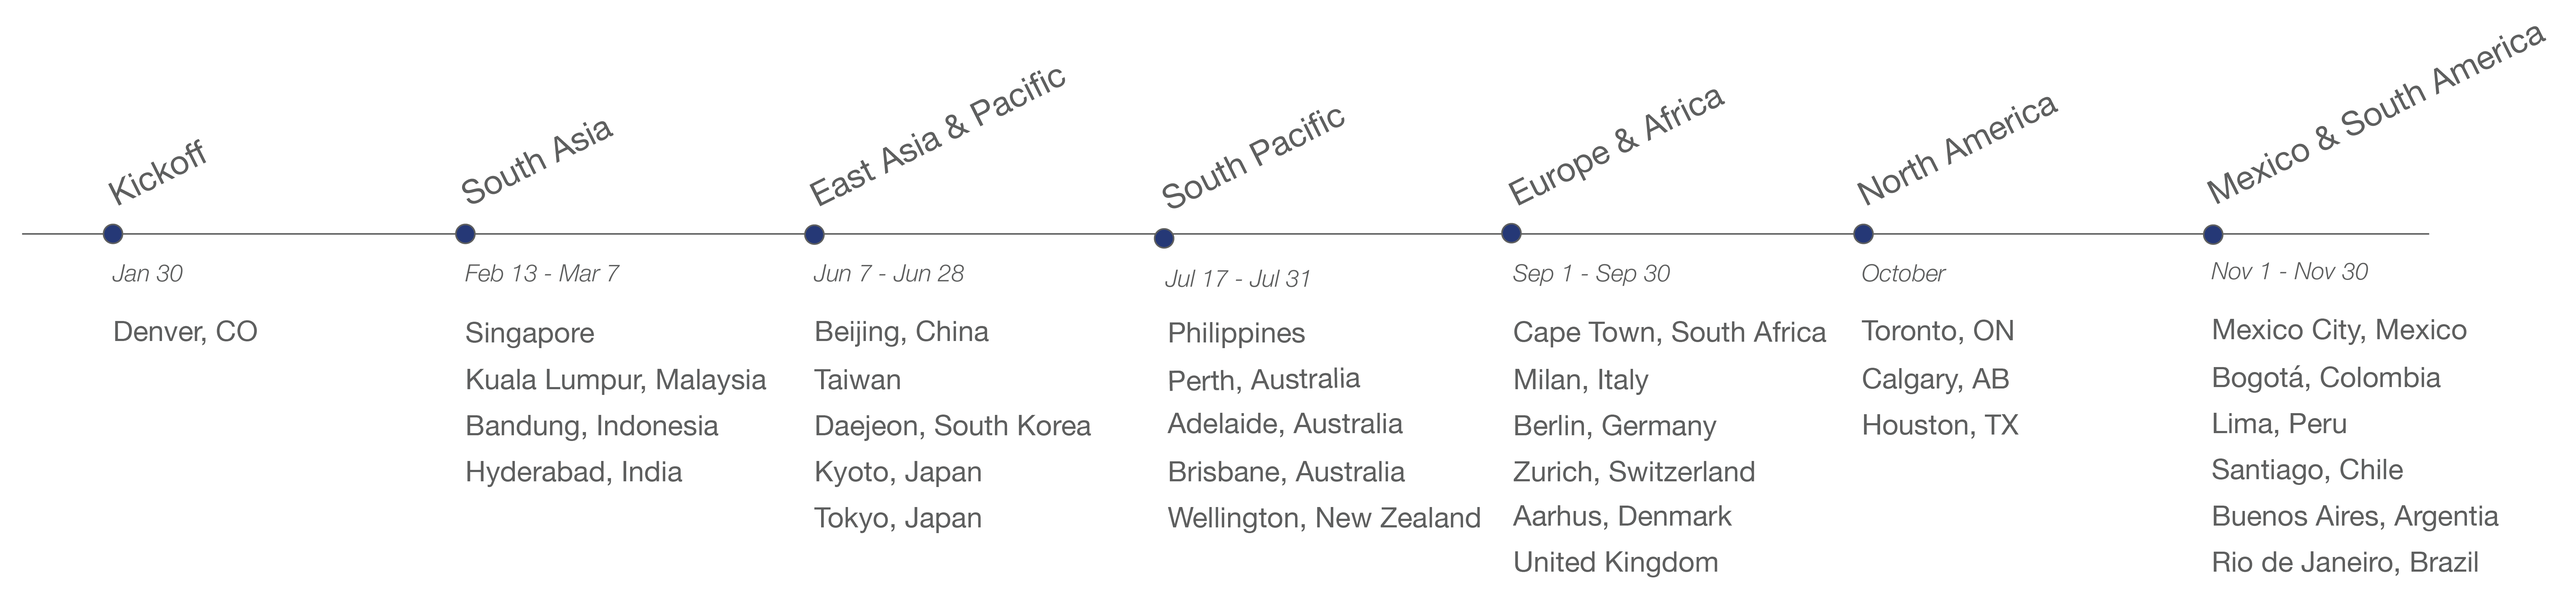
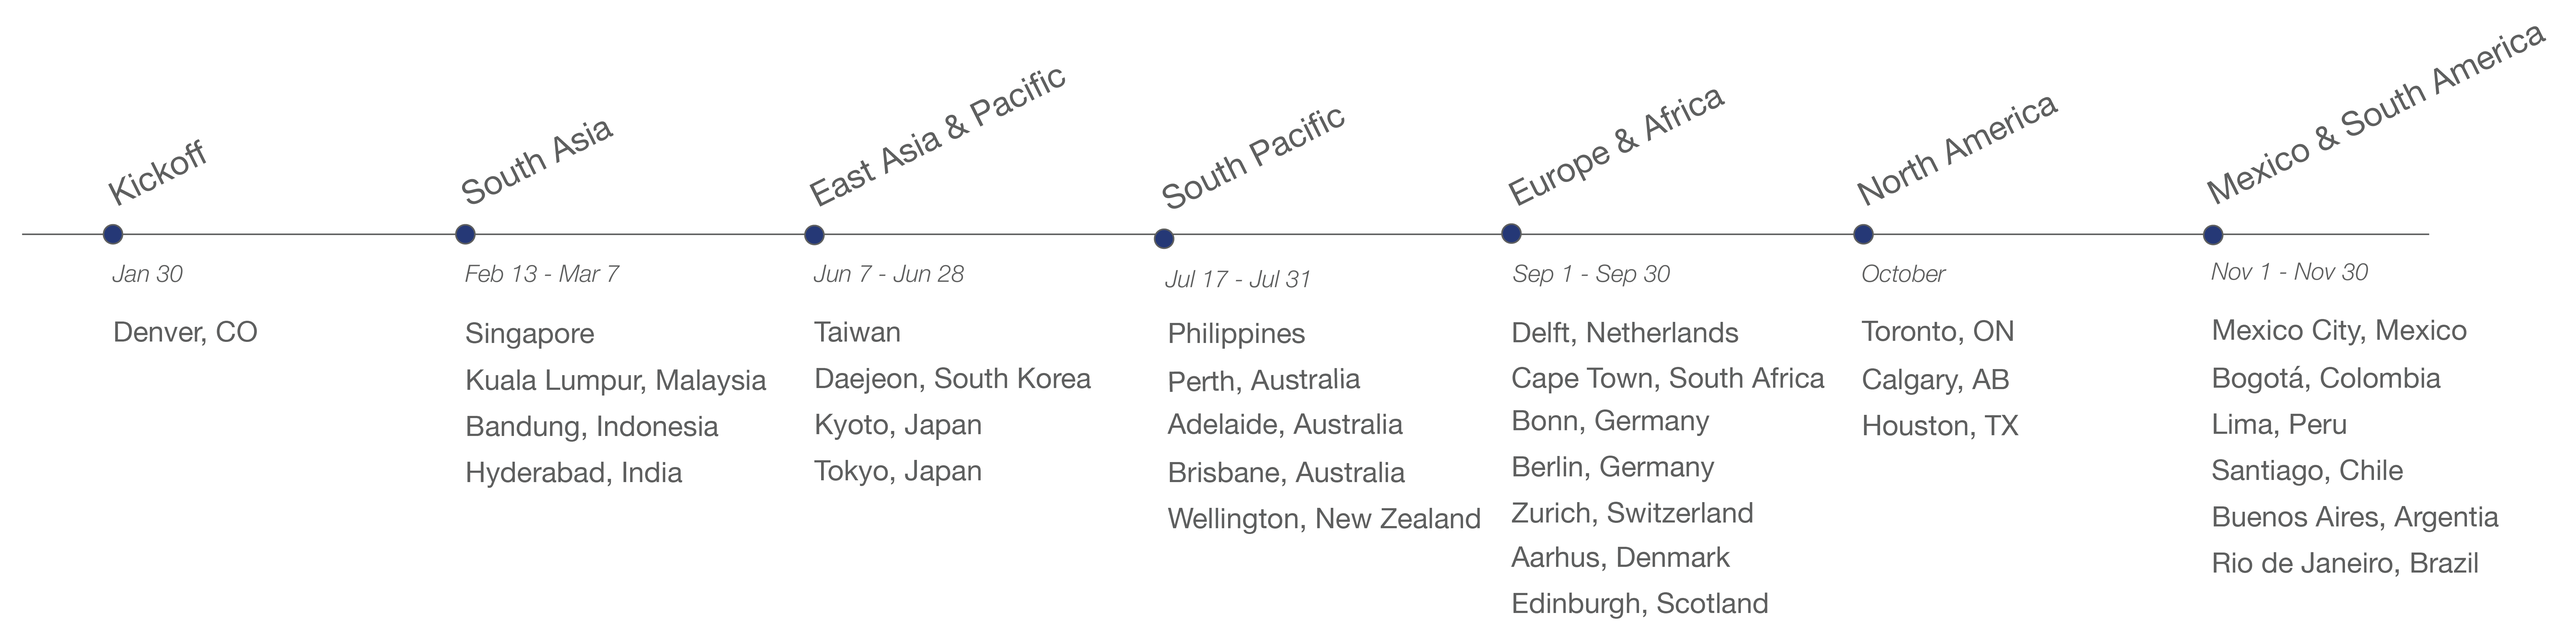
update site to include all east asia addresses, post links for australia registration

diff --git a/templates/where/template.html b/templates/where/template.html
@@ -58,33 +58,40 @@
 
                         <div class="row">
                             <h3>
-                                <emph> {{ date }} </emph>
+                                {{ date }}
                             </h3>
                         </div>
 
-                        <br>
+                        <!-- <br> -->
 
+                        {% if instructors is defined %}
+                        <div class="row" align="center">
+                            <h4>
+                                <em> {{ instructors|join(' &amp; ')}} </em>
+                            </h4>
+                        </div>
+                        {% endif %}
                         <!-- <div class="col-md-2 templatemo-box"></div> -->
 
 
+                        {% if feedback_form is defined %}
                         <div class="col-md-12 templatemo-box" align="center">
-                            {% if feedback_form is defined %}
-                                <a class="btn btn-success" href="{{ feedback_form }}" style="margin:10px">
-                                    <i class="fa fa-comment-o" aria-hidden="true"></i>
-                                    Give us feedback
-                                </a>
-                            {% endif %}
-<!--                         </div>
+                            <a class="btn btn-success" href="{{ feedback_form }}" style="margin:10px">
+                                <i class="fa fa-comment-o" aria-hidden="true"></i>
+                                Give us feedback
+                            </a>
+                        </div>
+                        {% endif %}
 
 
-                        <div class="col-md-6 templatemo-box" align="left"> -->
-                            {% if blog is defined %}
+                        {% if blog is defined %}
+                        <div class="col-md-6 templatemo-box" align="left">
                             <a class="btn btn-success" href="{{ blog }}"  style="margin:10px">
                                 <i class="fa fa-quote-left" aria-hidden="true"></i>
                                 Read about the day
                             </a>
-                            {% endif %}
                         </div>
+                        {% endif %}
 
 
                         <br>

diff --git a/templates/schedule.html b/templates/schedule.html
@@ -119,6 +119,10 @@
 
                                     <p>
                                         <em>{{ where[loc]['date'] }}</em>
+                                        {% if where[loc]['instructors'] is defined %}
+                                        <br>
+                                        <em>{{ where[loc]['instructors']|join(' &amp; ')}}</em>
+                                        {% endif %}
                                         <ul>
                                             <li>{{ where[loc]['time'] }}</li>
                                             <li><a href="{{ where[loc]['venue_url'] }}">{{ where[loc]['venue'] }}</a></li>
@@ -210,6 +214,10 @@
 
                                     <p>
                                         <em>{{ where[loc]['date'] }}</em>
+                                        {% if where[loc]['instructors'] is defined %}
+                                        <br>
+                                        <em>{{ where[loc]['instructors']|join(' &amp; ')}}</em>
+                                        {% endif %}
                                         <ul>
                                             <li>{{ where[loc]['time'] }}</li>
                                             <li><a href="{{ where[loc]['venue_url'] }}">{{ where[loc]['venue'] }}</a></li>

diff --git a/templates/index.html b/templates/index.html
@@ -290,7 +290,7 @@
                     </div>
                 </div>
 
-            <div class="row" align="left">
+            <div class="row" align="left" id="instructor">
                  <h4>Instructor</h4>
             </div>
             <div class="row">

diff --git a/disc2017.py b/disc2017.py
@@ -66,7 +66,7 @@ class Schedule(webapp2.RequestHandler):
 
 
     def get(self):
-        setTemplate(self, {'where':self.where}, 'schedule.html')
+        setTemplate(self, {'where': self.where}, 'schedule.html')
 
 
 class Events(webapp2.RequestHandler):
